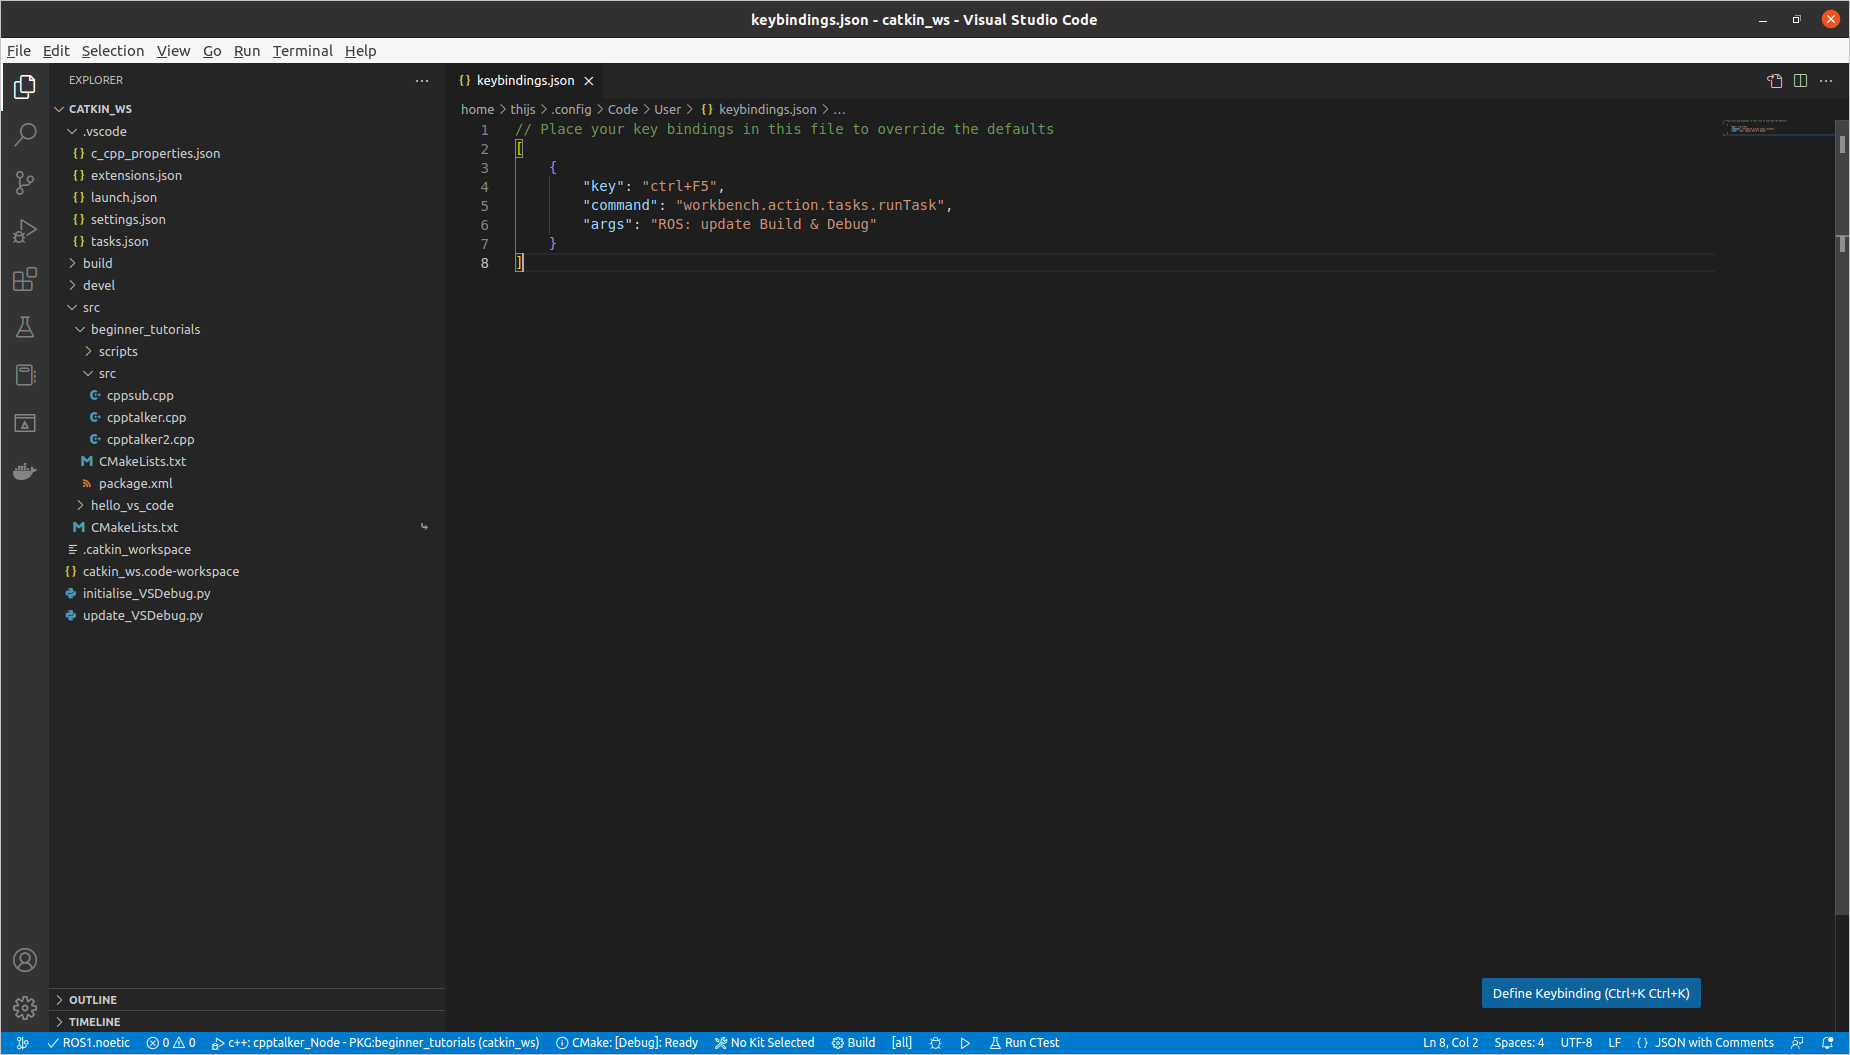
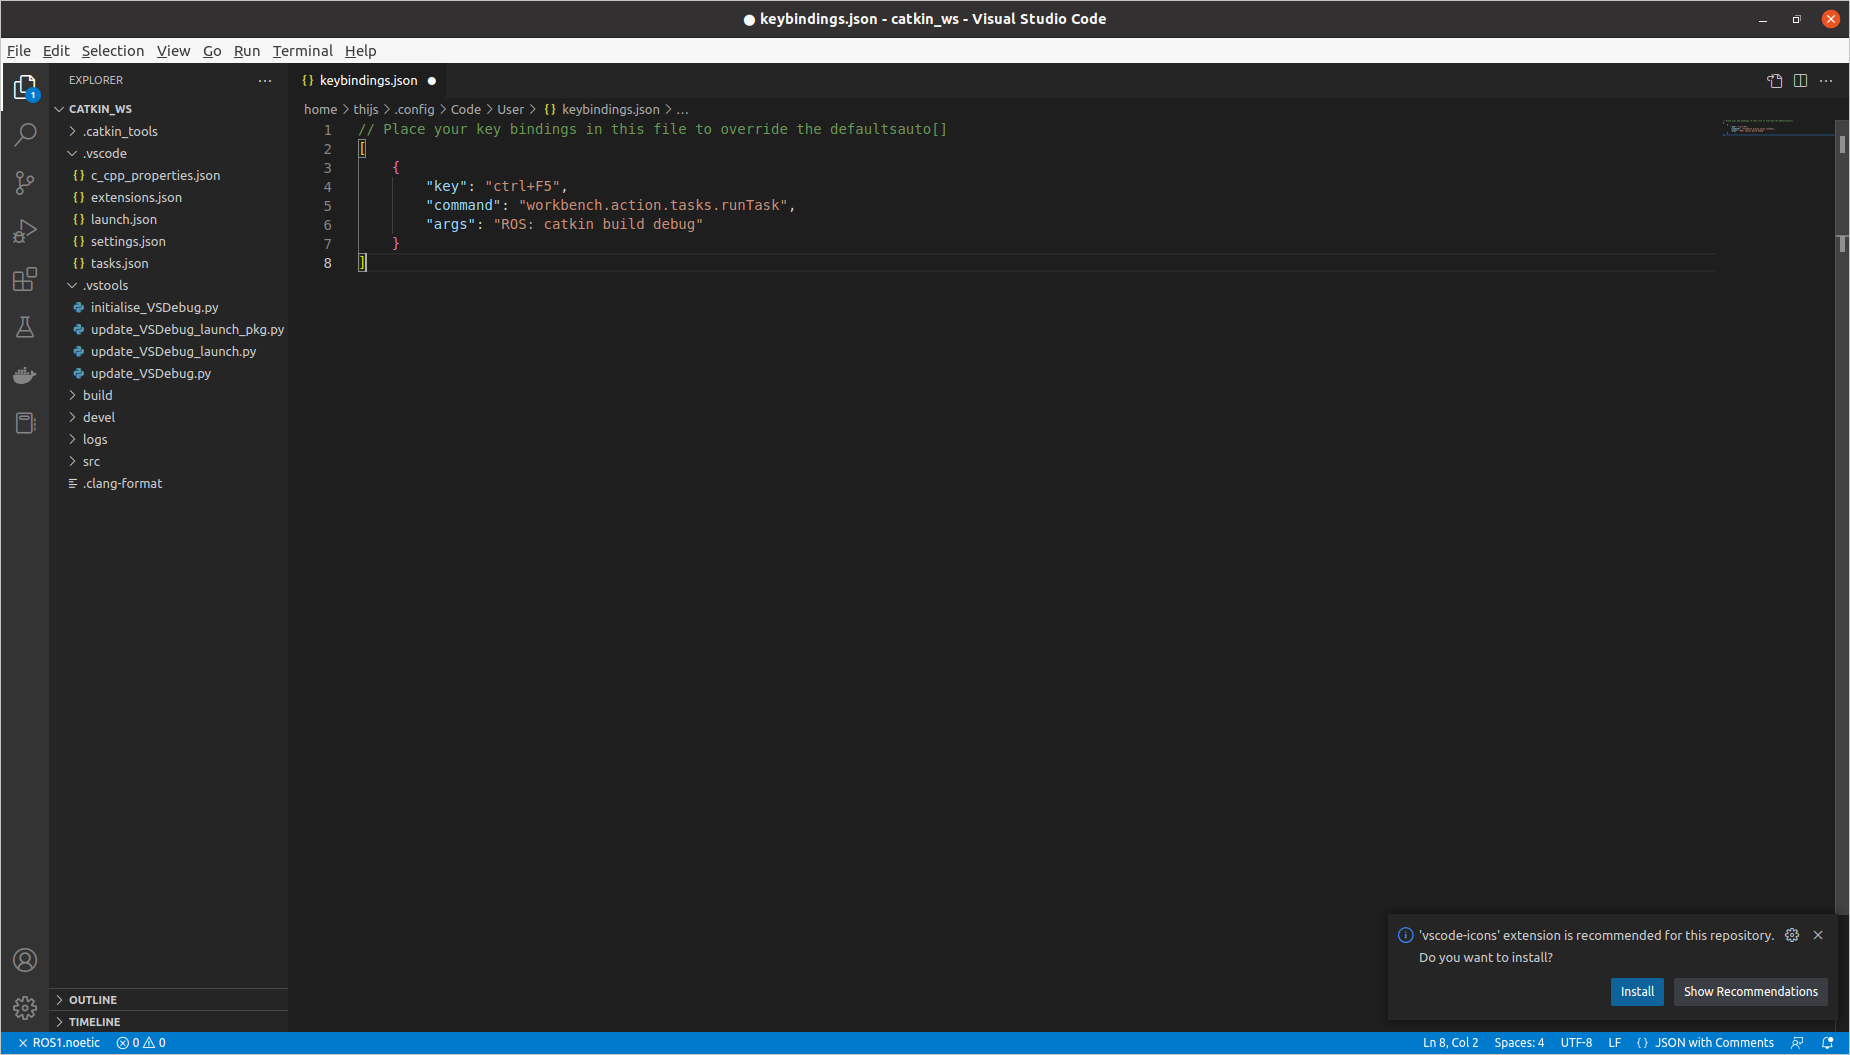
Update 1 for finalyzing

diff --git a/.vstools/initialise_VSDebug.py b/.vstools/initialise_VSDebug.py
@@ -241,7 +241,6 @@ extensions_data = {
         "ms-python.python",
         "ms-vscode.cpptools",
         "twxs.cmake",
-        "vscode-icons-team.vscode-icons",
         "ms-python.black-formatter",
         "xaver.clang-format",
         "ms-vscode.cmake-tools",
@@ -270,12 +269,7 @@ settings_data = {
     "clang-format.executable": "/usr/bin/clang-format-12",
     "clang-format.style": "file",
     "clang-format.language.c.enable": True,
-    "[c]": {
-        "editor.defaultFormatter": "xaver.clang-format",
-        "editor.wordBasedSuggestions": False,
-        "editor.suggest.insertMode": "replace",
-        "editor.semanticHighlighting.enabled": True,
-    },
+    "[c]": {"editor.defaultFormatter": "xaver.clang-format"},
     "python.analysis.extraPaths": ["/opt/ros/noetic/lib/python3/dist-packages"],
 }
 # Store the data in the json file

diff --git a/README.md b/README.md
@@ -71,11 +71,11 @@ Note: Make sure that the ROS environment is sourced in .bashrc and that ROS1 is 
 
 ## 3) Setting up Automated formatting using ROS standards
 
-The c++ formatter needs some extra steps, first install clang-tools-12 using .
+This Visual Code environment has a autoformatter for both python and c++ when files are saved to the ROS standards. An extra feature is that python imports are sorted to alphabetical order. To use the c++ formatter, some extra steps are required. First install clang-tools-12 using a terminal:
 ```
 sudo apt-get install clang-tools-12
 ```
-And now we need to set the main c++ formatter to Clang-Format,
+And now we need to set the main c++ formatter to Clang-Format in Visual Studio Code using the command palette,
 ```
 press Ctrl+Shift+P -->> Format Document With... -->> Configure Default Formatter... -->> Clang-Format
 ```
@@ -85,17 +85,37 @@ Note: The formatter is recommended for a repository that maintains a certain sta
 
 | WARNING: If the formatter is not used from the beginning of a repository, it could change files in a way that pull requests can become huge. Make sure that you know this beforehand. |
 
+
 ## 4) Automation of the VS workspace
 
-Now everything is ready we can start automating using the second python script. To make it easy and not having to run the python script everytime, a task is made that can be run from the Command Palette. This task automatically runs 'catkin build'(with debug settings to ON) and then runs the python script to include all ros exutables to the debug section.
+Now everything is ready and we can start using the settings we made. From the command palette, a few tasks can be used that where previously made by the python file. To use these tasks:
 ```
-To do this: press Ctrl+Shift+P -->> Tasks: Run Task -->> ROS: catkin build debug ~ Debug rosrun
+press Ctrl+Shift+P -->> Tasks: Run Task 
+```
+And then specify one of the created tasks:
+```
+ROS: catkin build
+ROS: catkin clean
+ROS: catkin build debug
+ROS: catkin build debug ~ Debug rosrun
+ROS: catkin build debug ~ Debug roslaunch
+ROS: catkin build debug ~ Debug roslaunch from specific Pkg
 ```
 
 ![Alt-text-1](images/tasks.png?raw=true "Tasks drop down menu") ![Alt-text-2](images/ros_build.png?raw=true "ROS build drop down menu")
 
+or the faster way:
+```
+press Ctrl+Shift+B
+```
+which will automatically go to the section: `Tasks: Run Task`.
 
-Now in the folder .vscode another file will be included named launch.json automatically. Everytime you alter files or delete/add executables, you have to run the above command. (This command runs catkin_make automatically and then updates the launch.json, so all executables are up to date with your code)
+The last 3 tasks will first run catkin with debug mode and then use the extra python files in the .vstools to create a launch.json file in the .vscode folder. This will display the nodes or launch files in the debug section of VS code. This file will be updated automatically when one of these three tasks is run.
+
+For example puposes, we will run the rosrun debug on the example packages:
+```
+press Ctrl+Shift+B -->> ROS: catkin build debug ~ Debug rosrun
+```
 
 We can now go to the Run and Debug section (Ctrl+Shift+D) and all the ros nodes are added to the drop-down menu visualized in the image below. 
 
